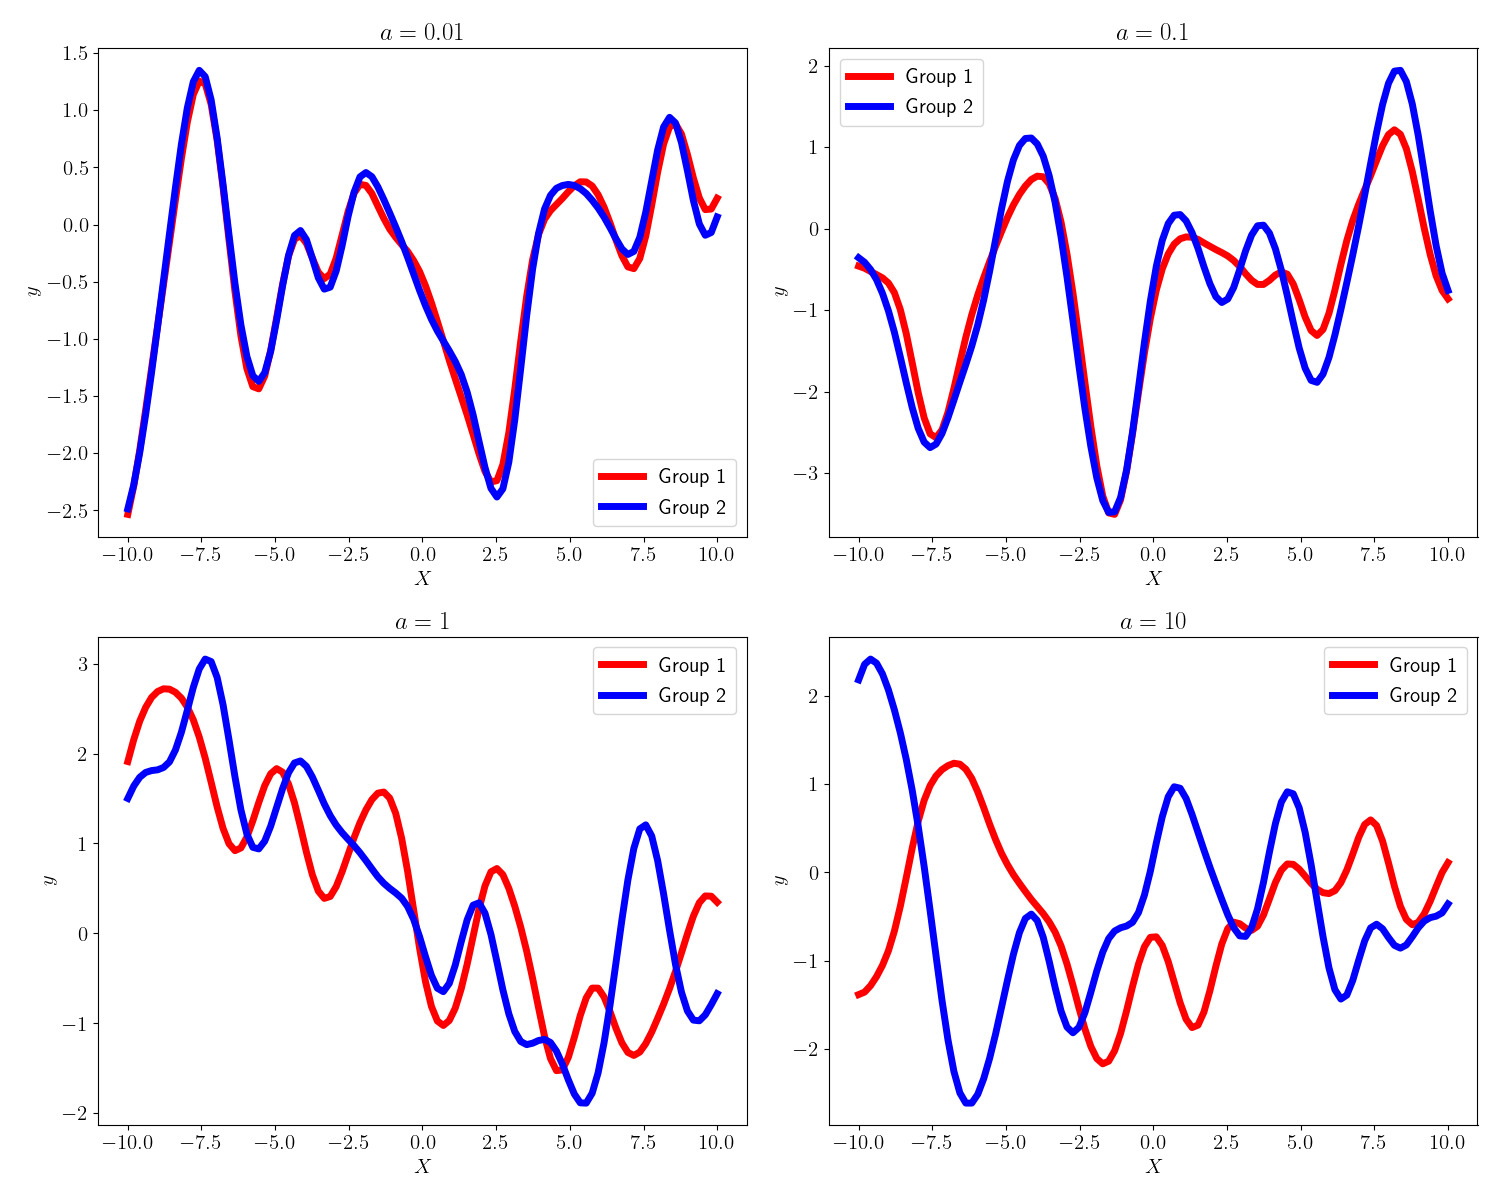
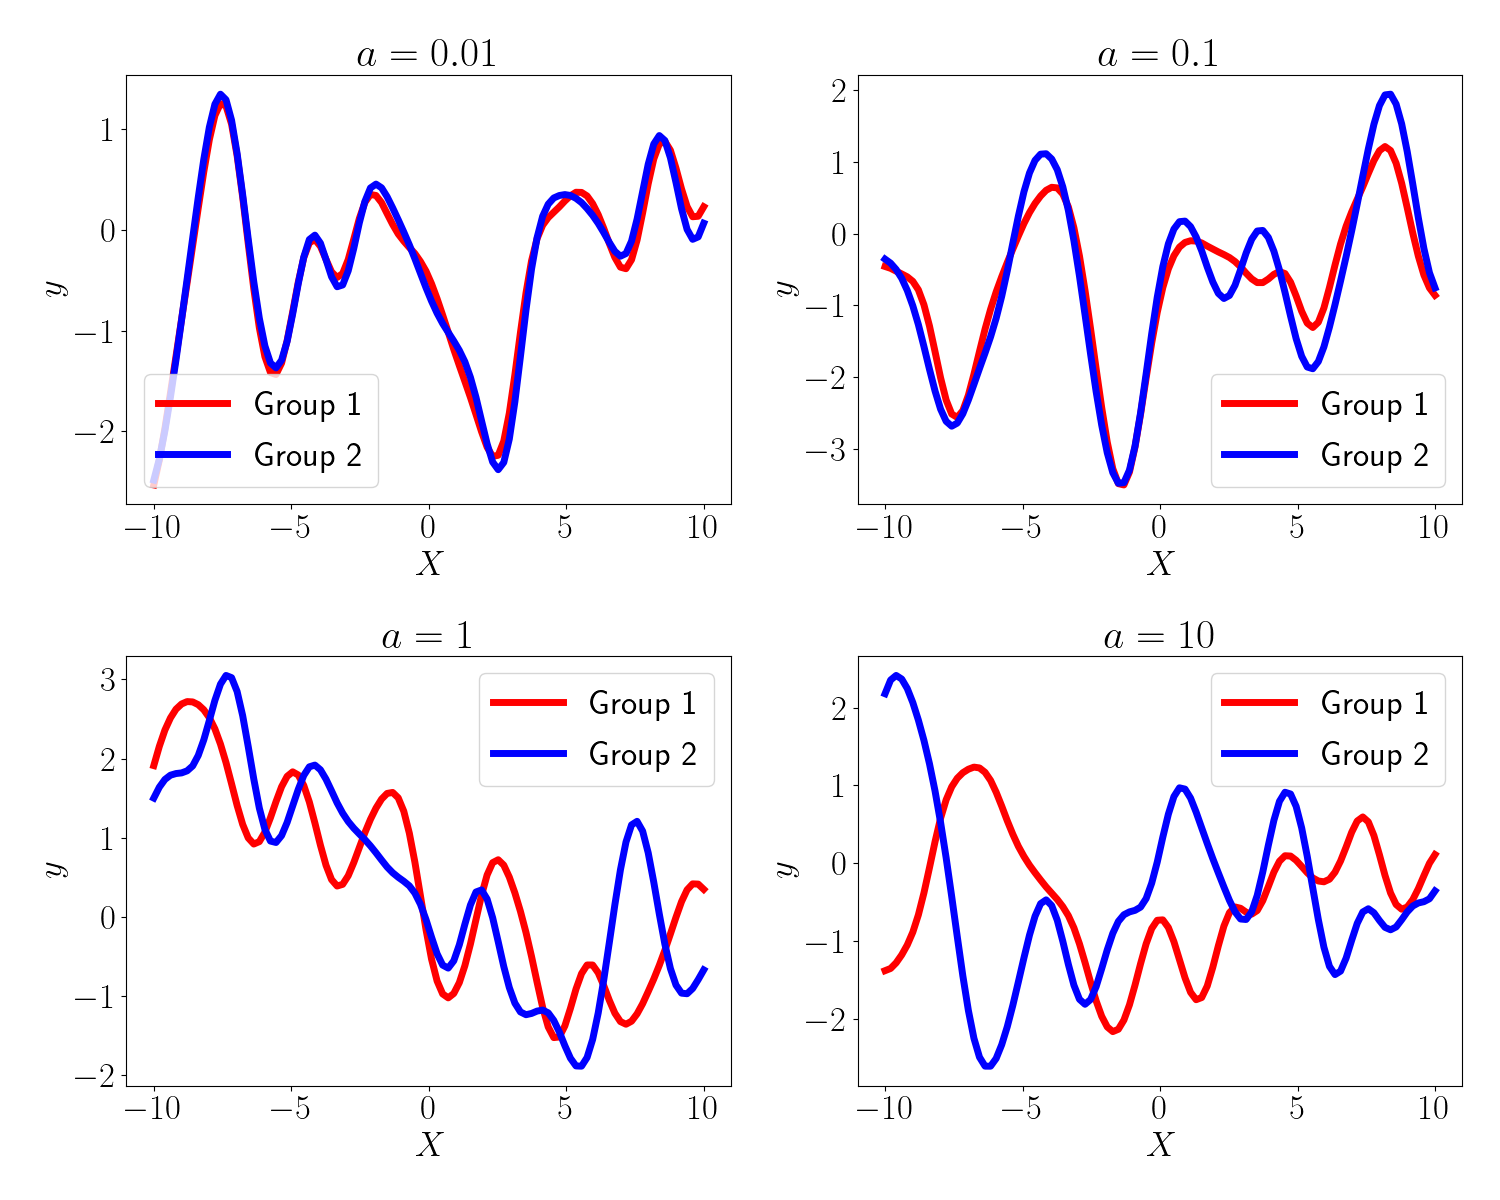
add viz of a

diff --git a/examples/visualize_a.py b/examples/visualize_a.py
@@ -6,7 +6,7 @@ import numpy as onp
 
 import matplotlib
 
-font = {"size": 15}
+font = {"size": 25}
 matplotlib.rc("font", **font)
 matplotlib.rcParams["text.usetex"] = True
 
